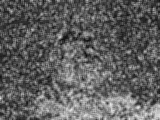
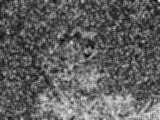
fix coordinate reference

diff --git a/dip2_py/dip2.py b/dip2_py/dip2.py
@@ -149,6 +149,7 @@ def nlm_filter(src: np.ndarray, search_size: int, sigma: float) -> np.ndarray:
     """
     print("nlm_filter():")
     patch_size = 3
+    patch_center = int(patch_size/2)
 
     pad_size = int(search_size/2)
     padded_src = np.pad(src, (pad_size, pad_size), mode="reflect")
@@ -159,6 +160,7 @@ def nlm_filter(src: np.ndarray, search_size: int, sigma: float) -> np.ndarray:
 
     denom = 2.0 * (sigma * sigma)
     eps = 1e-8 #to avoid 0
+    # patch_center_pos = int(patch_size/2)
 
     # iterate over image
     search_window_pad_size = int(patch_size/2)
@@ -166,24 +168,34 @@ def nlm_filter(src: np.ndarray, search_size: int, sigma: float) -> np.ndarray:
         for x in range(width):
 
             # crop search_window
-            search_window = padded_src[y:y+search_size, x:x+search_size]
-            padded_search_window = np.pad(search_window, (search_window_pad_size, search_window_pad_size), mode="reflect")
+            search_window = padded_src[y:y+search_size, x:x+search_size].astype(np.float32)
+            padded_search_window = np.pad(
+                search_window,
+                ((search_window_pad_size, search_window_pad_size),
+                 (search_window_pad_size, search_window_pad_size)),
+                mode="reflect"
+            )
 
             # center patch
-            # todo :
-            center_patch = padded_search_window[0:patch_size, 0:patch_size]
+            center_pos_y = int(padded_search_window.shape[0]/2)
+            center_pos_x = int(padded_search_window.shape[1]/2)
+            center_patch = padded_search_window[
+                center_pos_y - search_window_pad_size : center_pos_y + search_window_pad_size + 1,
+                center_pos_x - search_window_pad_size : center_pos_x + search_window_pad_size + 1]
             center_mean = center_patch.mean()
 
             weight_sum = 0.0
             weighted_pixel_sum = 0.0
             for y_s in range(search_size):
                 for x_s in range(search_size):
+                    # todo
                     patch = padded_search_window[y_s:(y_s+patch_size), x_s:(x_s+patch_size)]
+
                     path_mean = patch.mean()
                     distance = (path_mean - center_mean)**2
                     weight = np.exp(-distance/ denom)
                     weight_sum += weight
-                    weighted_pixel_sum += weight * padded_search_window[y_s, x_s]
+                    weighted_pixel_sum += weight * padded_search_window[y_s + patch_center, x_s + patch_center]
 
             filtered_img[y,x] = weighted_pixel_sum / (weight_sum + eps)
             # filtered_img[y,x] = weighted_pixel_sum / (weight_sum)
